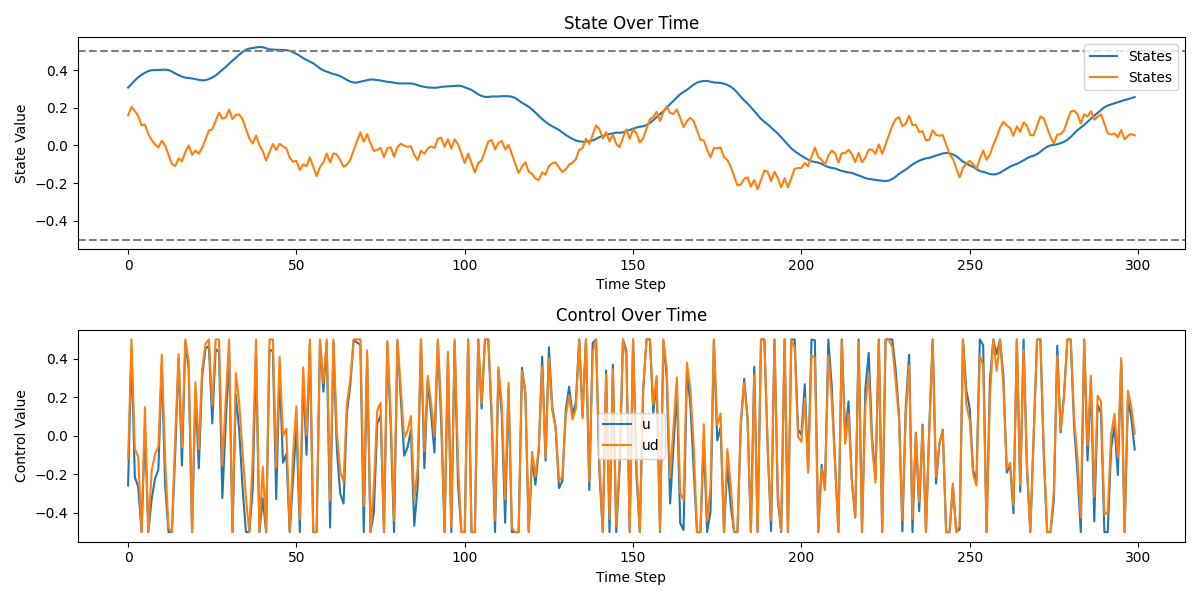
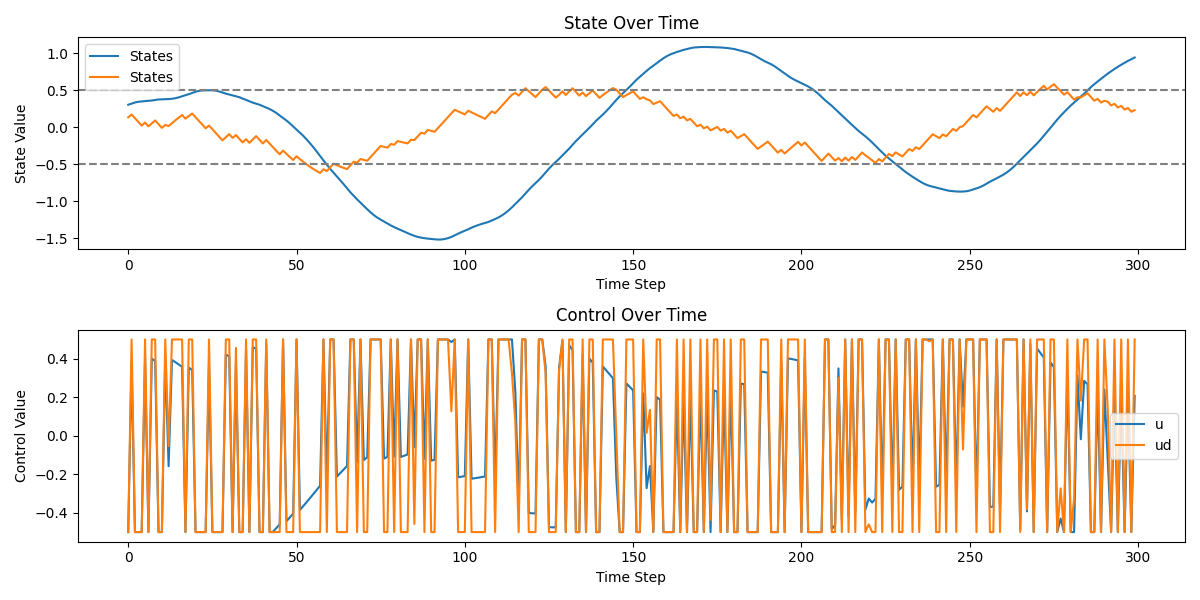
add safe cost as actual costs

diff --git a/learning-qp-master/src/psf/integrated_env_creators.py b/learning-qp-master/src/psf/integrated_env_creators.py
@@ -77,7 +77,7 @@ class Integrated_env:
             # bang-bang control (使用 torch.where 来向量化条件操作
             # ud = torch.where(theta >= 0.2, torch.full_like(theta, self.u_max), torch.where(theta <= -0.2, torch.full_like(theta, self.u_min), torch.zeros_like(theta)))
             # LQR control
-            noise = 0.5
+            noise = 5
             v = (noise * torch.randn((self.bs, 1), device=self.device))
             ud = self.env.get_action_LQR(noise_level = noise) + v  # 双重噪声
             # ud = v
@@ -117,11 +117,11 @@ class Integrated_env:
     #     return self.env.cost(*args, **kwargs)
     
     def reward(self,original_reward, action):
-        coef_original = 0.0
-        original_reward = coef_original * original_reward
+        # coef_original = 0.0
+        # original_reward = coef_original * original_reward
         
-        original_safe_cost = -self.env.safe_cost()
-        coef_safety = 80.0
+        original_safe_cost = original_reward
+        coef_safety = -100.0
         safe_cost = coef_safety * original_safe_cost
         # deviation = torch.norm(self.ud - action, p=2) ** 2
         deviation = (self.ud - action.squeeze()) ** 2
@@ -142,7 +142,7 @@ class Integrated_env:
         terminate_cost = -1.0 * (self.env.is_done == 1)
         coef_terminate = 100000.
 
-        combined_reward = original_reward + safe_cost + deviation_cost + survival_reward + terminate_cost  # 注意正负号！！！
+        combined_reward = safe_cost + deviation_cost + survival_reward + terminate_cost  # 注意正负号！！！
         # combined_reward = safe_cost + deviation_cost  # 注意正负号！！
         if not self.env.quiet:
             avg_safe_cost = safe_cost.float().mean().item()

diff --git a/learning-qp-master/src/envs/linear_system.py b/learning-qp-master/src/envs/linear_system.py
@@ -264,6 +264,7 @@ class LinearSystem():
         # 将布尔张量转换为整数张量，任何状态变量越界则为1，否则为0
         safe_cost = boundary_check.any(dim=-1).int()
         self.info_dict["safe_cost"] = safe_cost
+        self.info_dict["actual_costs"] = safe_cost
         return safe_cost
 
     def done(self):
